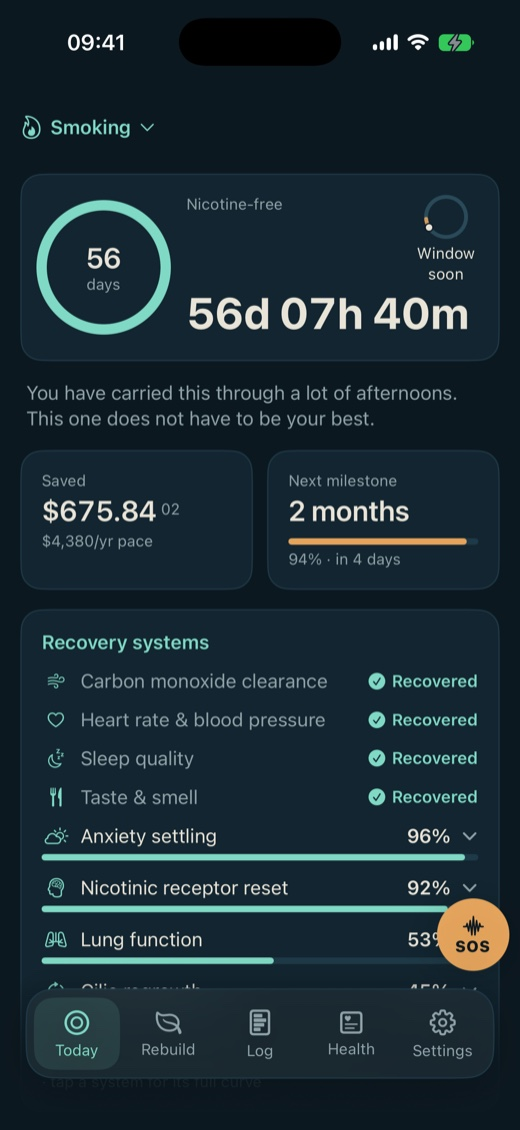
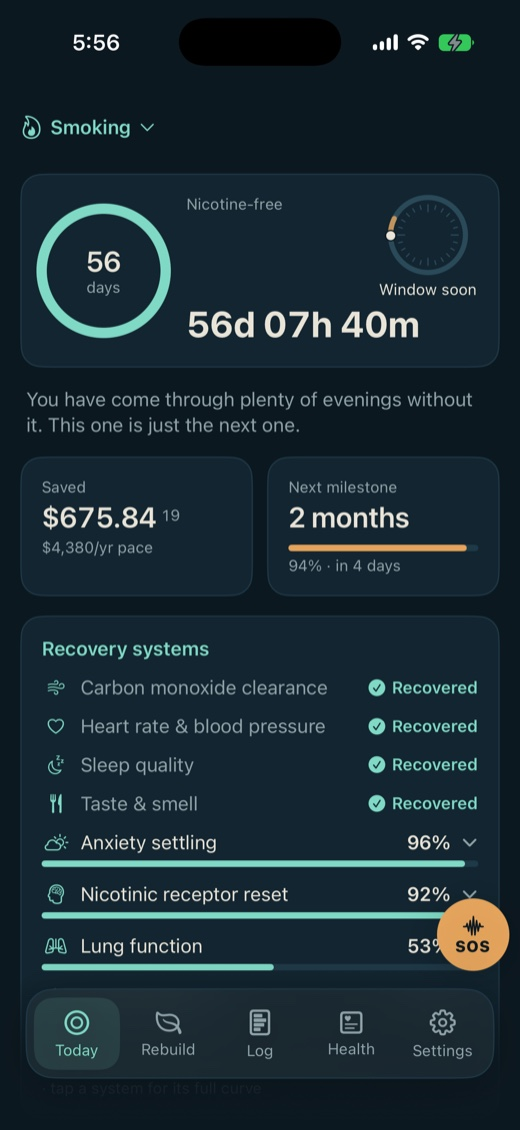
The five substances, the health charts, and the voices
Answers the visitor's first question in the hero rather than halfway down:
what this helps you quit. Adds the Health tab's real charts, which needed a
debug seeder before they could be photographed at all, and gives the three
voices and the four passage packs a section of their own.

Every screenshot retaken with the real clock. The old set carried Apple's 9:41
convention over a dial whose dot marks the actual current time, so the page
disagreed with itself about what time it was.

diff --git a/index.html b/index.html
@@ -4,12 +4,12 @@
 <meta charset="utf-8">
 <meta name="viewport" content="width=device-width, initial-scale=1">
 <title>QuitForecast</title>
-<meta name="description" content="QuitForecast finds the two hours your cravings actually come, in your own log, and tells you before they arrive. Smoking, vaping, alcohol, cannabis, caffeine.">
+<meta name="description" content="Smoking, vaping, alcohol, weed or caffeine. QuitForecast learns the hours your cravings actually come, out of your own log, and tells you before they arrive.">
 <meta name="theme-color" content="#0C1820">
 <meta property="og:type" content="website">
 <meta property="og:url" content="https://quitforecast.com/">
 <meta property="og:title" content="QuitForecast">
-<meta property="og:description" content="What you know can’t control you. QuitForecast finds the two hours your cravings actually come, in your own log, and tells you before they arrive.">
+<meta property="og:description" content="What you know can’t control you. QuitForecast learns the hours your cravings actually come, out of your own log, and tells you before they arrive.">
 <meta name="twitter:card" content="summary">
 <!-- The mark, inline: a data URI so the page still asks nothing of any other
      host. Full closed ring, amber now-dot centered on the ring path at twelve
@@ -392,7 +392,8 @@ footer .row { display: flex; flex-wrap: wrap; gap: var(--s-l) var(--s-xl);
       QuitForecast
     </a>
     <nav aria-label="Page sections">
-      <a href="#privacy">Privacy</a>
+      <a href="#substances">What it covers</a>
+      <a href="#price">Price</a>
       <a href="#support">Support</a>
     </nav>
   </header>
@@ -406,8 +407,9 @@ footer .row { display: flex; flex-wrap: wrap; gap: var(--s-l) var(--s-xl);
       <div class="hero-copy">
         <div class="head-stack">
           <h1>What you know can’t control you.</h1>
-          <p class="lede">QuitForecast finds the two hours your cravings
-          actually come, in your own log, and tells you before they arrive.</p>
+          <p class="lede">Smoking, vaping, alcohol, weed or caffeine.
+          QuitForecast learns the hours your cravings actually come, out of
+          your own log, and tells you before they arrive.</p>
         </div>
         <div>
           <!-- PLACEHOLDER LINK: swap 0000000000 for the real App Store id once
@@ -525,6 +527,32 @@ footer .row { display: flex; flex-wrap: wrap; gap: var(--s-l) var(--s-xl);
     </div>
   </section>
 
+  <!-- ===================== WHAT YOU ARE QUITTING ===================== -->
+  <section id="substances">
+    <div class="wrap">
+      <div class="feature flip reveal">
+        <div class="feature-copy">
+          <h2>Five things, five forecasts.</h2>
+          <p class="lede dim">Smoking, vaping, alcohol, cannabis, caffeine.
+          Each written separately, because they are not the same withdrawal.</p>
+          <p>Nicotine leaves in days while the receptors take weeks. Alcohol
+          withdrawal can be a medical emergency, so that timeline opens with
+          the warning signs and the number to call rather than a milestone.
+          Cannabis takes sleep and appetite with it for a fortnight. Caffeine
+          is a headache with a deadline. You can run more than one at a time,
+          and each keeps its own clock, its own timeline and its own colour.</p>
+        </div>
+        <div class="phone">
+          <img src="shots/habits.jpg" width="520" height="1130" loading="lazy"
+               decoding="async"
+               alt="The setup screen asking What are you quitting, listing
+                    Smoking, Vaping, Alcohol, Cannabis and Caffeine, each with
+                    its own icon.">
+        </div>
+      </div>
+    </div>
+  </section>
+
   <!-- ===================== THE WINDOW ===================== -->
   <section id="window">
     <div class="wrap">
@@ -545,32 +573,34 @@ footer .row { display: flex; flex-wrap: wrap; gap: var(--s-l) var(--s-xl);
           <div class="phone">
             <img src="shots/today.jpg" width="520" height="1130" loading="lazy"
                  decoding="async"
-                 alt="The Today screen. A ring counting 56 days clean, and in
-                      the corner a small twenty-four hour dial with an amber arc
-                      and the words Window soon.">
+                 alt="The Today screen. A ring counting 56 days clean, and
+                      beside it a twenty-four hour clock face with hour marks,
+                      an amber arc over the coming window, a cream dot at the
+                      current time, and the words Window soon.">
           </div>
-          <p class="shotnote" style="margin-top: var(--s-m);">The dial sits in
-          the corner of the counter. One word, all day.</p>
+          <p class="shotnote" style="margin-top: var(--s-m);">A clock face of
+          your own day. Midnight at the top, amber over your window, a cream
+          dot at right now.</p>
         </div>
         <div>
           <div class="phone">
             <img src="shots/window.jpg" width="520" height="1130" loading="lazy"
                  decoding="async"
-                 alt="The window card reading: Your hard hour is coming. The
-                      Monday 4 PM to 6 PM stretch is where yours have gathered.
-                      8 of your last 8 Mondays had a craving between 4 PM and
-                      6 PM. Below it, a Patterns card listing four measured
-                      facts from the same log.">
+                 alt="The window card, open, reading: You are in your window.
+                      This is the stretch that has been hardest. It builds, it
+                      peaks, it passes. Below it, a Patterns card listing four
+                      measured facts from the same log.">
           </div>
-          <p class="shotnote" style="margin-top: var(--s-m);">Tap it and the
-          count that earned the warning is right there, along with the trigger
-          that usually rides with it.</p>
+          <p class="shotnote" style="margin-top: var(--s-m);">When the hours
+          arrive it says so, and every fact underneath is counted off the same
+          log.</p>
         </div>
       </div>
       <p class="micro" style="margin-top: var(--s-xl); max-width: 34rem;
       margin-inline: auto; text-align: center;">Real
-      screens, from a real build, in a log that happens to peak on Monday
-      afternoons. Yours will name different hours, or none at all.</p>
+      screens, from a real build, on a log that happens to peak in the early
+      evening. Yours will name different hours, or none at all. A day with two
+      genuine patterns gets two arcs; almost nobody has two.</p>
 
       <div class="split reveal" style="margin-top: var(--s-xxl);">
         <div>
@@ -660,6 +690,59 @@ footer .row { display: flex; flex-wrap: wrap; gap: var(--s-l) var(--s-xl);
     </div>
   </section>
 
+  <!-- ===================== HEALTH ===================== -->
+  <section id="health">
+    <div class="wrap">
+      <div class="sechead">
+        <h2>Your body keeps the receipts.</h2>
+        <div class="sechead-body">
+          <p class="lede dim">The forecast says your heart calms and your
+          breathing settles. Your own watch can check whether it did.</p>
+          <p>Connect Apple Health and five measures chart themselves against
+          your own average from the fourteen days before you quit: resting
+          heart rate, heart rate variability, cardio fitness, respiratory rate
+          and blood oxygen. The dashed line is your before. The marker is the
+          day you stopped. Every card says what published research expects and
+          cites it, then shows what actually happened to you, which is not
+          always the same thing and is never edited to agree.</p>
+          <p class="micro">Read on your device, shown to you, transmitted
+          nowhere. Health data is the one category this app reads and the one
+          it is most careful with.</p>
+        </div>
+      </div>
+
+      <div class="phones reveal" style="margin-top: clamp(2rem, 5vw, 3rem);">
+        <div>
+          <div class="phone">
+            <img src="shots/health.jpg" width="520" height="1130" loading="lazy"
+                 decoding="async"
+                 alt="The Health tab. A heading reading There is no improved you
+                      at the end of this, and under it a resting heart rate card
+                      marked 9.0 better, charting a dashed pre-quit baseline, a
+                      marker at the day you stopped, and a falling line after
+                      it.">
+          </div>
+          <p class="shotnote" style="margin-top: var(--s-m);">Nine beats a
+          minute lower than this person's own baseline, on their own watch.</p>
+        </div>
+        <div>
+          <div class="phone">
+            <img src="shots/health-metric.jpg" width="520" height="1130"
+                 loading="lazy" decoding="async"
+                 alt="A heart rate variability card marked 12.8 better, with its
+                      chart, and beneath it a block headed What research expects
+                      reading: nicotine suppresses HRV, studies show it climbing
+                      within days to weeks of stopping, one of the earliest
+                      measurable wins. Evidence 26.">
+          </div>
+          <p class="shotnote" style="margin-top: var(--s-m);">What the research
+          expects sits under the chart, with its source, so the two can be read
+          against each other.</p>
+        </div>
+      </div>
+    </div>
+  </section>
+
   <!-- ===================== SOS ===================== -->
   <section id="sos">
     <div class="wrap">
@@ -695,8 +778,8 @@ footer .row { display: flex; flex-wrap: wrap; gap: var(--s-l) var(--s-xl);
       <div class="sechead">
         <h2>Know it first.</h2>
         <div class="sechead-body">
-        <p class="lede dim">The log is not homework. It is the only place your
-        own evidence can come from.</p>
+        <p class="lede dim">The log is not homework. It is where the hours
+        came from, and it takes two taps.</p>
         </div>
       </div>
 
@@ -826,20 +909,68 @@ footer .row { display: flex; flex-wrap: wrap; gap: var(--s-l) var(--s-xl);
     </div>
   </section>
 
-  <!-- ===================== FAITH PACKS ===================== -->
-  <section id="faith">
+  <!-- ===================== VOICE AND PACKS ===================== -->
+  <section id="voice">
     <div class="wrap">
-      <div class="split">
-        <div>
-          <h2 style="font-size: var(--t-h2);">If you want it, it is there.</h2>
+      <div class="sechead">
+        <h2>It talks the way you want to be talked to.</h2>
+        <div class="sechead-body">
+          <p class="lede dim">Same event, same evidence, three voices. You pick
+          one in Settings and every notification, every SOS screen and every
+          celebration follows it.</p>
         </div>
-        <div class="body-stack">
-          <p>Four packs sit in Settings, off by default: Stoic wisdom,
-          Christian scripture, Islamic scripture, Jewish scripture. Nothing
-          appears unless you turn one on. Each passage carries a plain reading
-          of what it is broadly taken to mean, offered as a reflection and
-          never as an instruction. They are free, permanently, and the app is
-          exactly as useful with all four switched off.</p>
+      </div>
+
+      <div class="feature reveal" style="margin-top: clamp(2rem, 5vw, 3rem);">
+        <div class="feature-copy">
+          <div class="card">
+            <p class="micro">Normal</p>
+            <p style="margin-top: var(--s-xs);">Your hard hour is coming</p>
+          </div>
+          <div class="card">
+            <p class="micro">Cheeky</p>
+            <p style="margin-top: var(--s-xs);">Incoming: your brain’s favorite
+            hour</p>
+          </div>
+          <div class="card">
+            <p class="micro">Strict coach</p>
+            <p style="margin-top: var(--s-xs);">Window opens soon. Get ahead of
+            it.</p>
+          </div>
+          <p class="micro">The three real strings, for the same moment. None of
+          them changes what the app knows or when it speaks: the count
+          underneath is identical, and no voice is allowed to claim more than
+          the quiet one.</p>
+        </div>
+        <div class="phone">
+          <img src="shots/voice.jpg" width="520" height="1130" loading="lazy"
+               decoding="async"
+               alt="Settings, under a heading How the app talks to you, with a
+                    Voice row set to Normal.">
+        </div>
+      </div>
+
+      <div class="feature flip reveal" style="margin-top: clamp(2.5rem, 6vw, 4rem);">
+        <div class="feature-copy">
+          <h3>And a daily passage, if you want one</h3>
+          <p>Four packs, off by default: Stoic wisdom, Christian scripture,
+          Islamic scripture, Jewish scripture. Turn one on and a passage joins
+          your Today screen each day, from the tradition you chose and no
+          other. Each carries a plain reading of what it is broadly taken to
+          mean, offered as reflection and never as instruction.</p>
+          <p class="small dim">They are free, permanently, and they are not a
+          fifth of the app hidden behind a belief: switch all four off and
+          nothing else changes. The passages are set in a serif, because a
+          passage should read as a passage and not as an app telling you
+          something.</p>
+        </div>
+        <div class="phone">
+          <img src="shots/packs.jpg" width="520" height="1130" loading="lazy"
+               decoding="async"
+               alt="Settings, under Daily encouragement, a Motivation pack row
+                    set to Stoic wisdom, described as optional: adds a daily
+                    verse or philosophical passage to your Today screen, from
+                    the tradition you choose.">
         </div>
       </div>
     </div>
